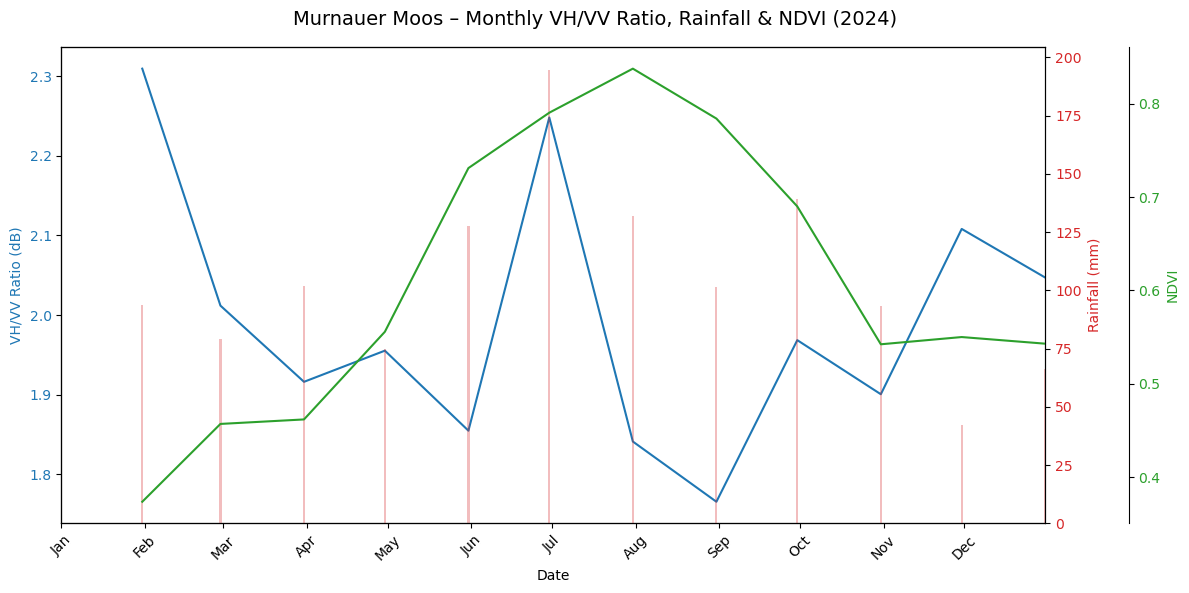
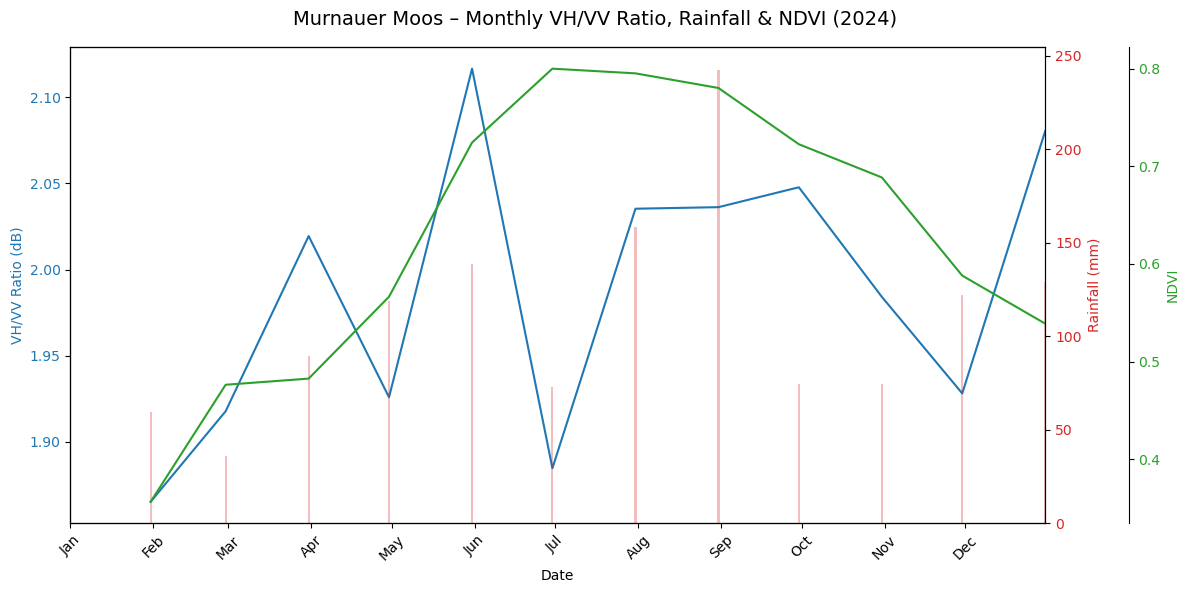
Update projects

diff --git a/docs/projects/Geospatial/Peatland-breathing.html b/docs/projects/Geospatial/Peatland-breathing.html
@@ -6,7 +6,7 @@
 
 <meta name="viewport" content="width=device-width, initial-scale=1.0, user-scalable=yes">
 
-<meta name="description" content="Multi-source remote sensing and rainfall data for monthly peatland ecosystem monitoring in 2024.">
+<meta name="description" content="Multi-sensor monitoring of peatland surface displacement and ecosystem dynamics using InSAR, NDVI, and rainfall data using GEE">
 
 <title>Peatland Breathing: Murnauer Moos – Fyeqa Akram</title>
 <style>
@@ -116,13 +116,14 @@ ul.task-list li input[type="checkbox"] {
   <div class="quarto-categories">
     <div class="quarto-category">Geospatial</div>
     <div class="quarto-category">Remote Sensing</div>
+    <div class="quarto-category">InSAR</div>
     <div class="quarto-category">Environmental Monitoring</div>
   </div>
   </div>
 
 <div>
   <div class="description">
-    Multi-source remote sensing and rainfall data for monthly peatland ecosystem monitoring in 2024.
+    Multi-sensor monitoring of peatland surface displacement and ecosystem dynamics using InSAR, NDVI, and rainfall data using GEE
   </div>
 </div>
 
@@ -139,44 +140,80 @@ ul.task-list li input[type="checkbox"] {
 </header>
 
 
-<p><a href="https://github.com/fyeqaa/Peatland-breathing.git" target="_blank"> <button style="background-color:#24292e; color:white; padding:8px 16px; border:none; border-radius:5px; cursor:pointer;"> View on GitHub </button> </a></p>
-<section id="project-overview" class="level3">
-<h3 class="anchored" data-anchor-id="project-overview">Project Overview</h3>
-<p>Peatlands are vital carbon sinks, storing more carbon than all the world’s forests combined—but their stability is sensitive to water level changes. The surface “breathing” of peatlands, observed through remote sensing, is a strong proxy for ecosystem health and CO₂ release, making large-scale monitoring essential for climate action.</p>
-<p>In this project, I developed a monthly monitoring framework for the temperate peatland ecosystem of Murnauer Moos in 2024. By integrating multi-source remote sensing datasets and climate variables—including Sentinel-1 SAR radar, Sentinel-2 NDVI, and rainfall data,I tracked vegetation and moisture dynamics to assess peatland ecosystem health and environmental responses.</p>
+<p><a href="https://github.com/fyeqaa/Peatland-breathing" target="_blank"> <button style="background-color:#24292e; color:white; padding:8px 16px; border:none; border-radius:5px; cursor:pointer;"> View on GitHub </button> </a></p>
+<section id="project-overview" class="level4">
+<h4 class="anchored" data-anchor-id="project-overview">Project Overview</h4>
+<p>Peatlands are among the most effective carbon sinks, storing more carbon than all global forests combined. Their surface motion, also called <strong>peatland breathing</strong>, is a proxy for water level fluctuations and carbon release potential.</p>
+<p>In this project, I monitored the <strong>Murnauer Moos</strong> peatland ecosystem in Germany throughout <strong>2023</strong>, leveraging <strong>InSAR displacement</strong>, <strong>NDVI</strong>, <strong>radar backscatter</strong>, and <strong>rainfall data</strong> to understand its dynamic behavior.</p>
+</section>
 <section id="data-sources" class="level4">
 <h4 class="anchored" data-anchor-id="data-sources">Data Sources</h4>
 <ul>
-<li>Sentinel-1 SAR (COPERNICUS/S1_GRD)</li>
-<li>Sentinel-2 (COPERNICUS/S2_SR_HARMONIZED)</li>
-<li>Rainfall (UCSB-CHG/CHIRPS/DAILY)</li>
+<li><strong>Sentinel-1 InSAR Displacement</strong> (<code>.geo.unw.tif</code>)</li>
+<li><strong>Sentinel-1 VH/VV SAR Backscatter</strong> (COPERNICUS/S1_GRD)</li>
+<li><strong>Sentinel-2 NDVI</strong> (COPERNICUS/S2_SR_HARMONIZED)</li>
+<li><strong>Rainfall</strong> (UCSB CHIRPS Daily Precipitation)</li>
 </ul>
 </section>
 <section id="methodology" class="level4">
 <h4 class="anchored" data-anchor-id="methodology">Methodology</h4>
+<section id="insar-displacement" class="level5">
+<h5 class="anchored" data-anchor-id="insar-displacement">1. <strong>InSAR Displacement</strong></h5>
 <ul>
-<li><strong>Study Area</strong>: The Murnauer Moos peatland, a key temperate wetland ecosystem.</li>
-<li><strong>Sentinel-1 Processing</strong>: Computation of VH/VV backscatter ratio to track surface water and vegetation moisture content.</li>
-<li><strong>Sentinel-2 Processing</strong>: NDVI calculation from harmonized surface reflectance to monitor vegetation health.</li>
-<li><strong>Rainfall Data</strong>: Aggregated from daily to monthly scale to capture precipitation patterns affecting the peatland.</li>
-<li><strong>Time Series Analysis</strong>: Monthly aggregation and alignment of all variables to facilitate integrated temporal analysis.</li>
+<li>Processed <strong>unwrapped phase</strong> files to derive <strong>monthly surface displacement</strong> in meters.</li>
+<li>Filtered low-coherence areas and calculated <strong>mean displacement</strong> for each time window.</li>
+<li>Visualized both time series and <strong>animated maps</strong> showing spatial displacement changes.</li>
 </ul>
 </section>
-<section id="results" class="level4">
-<h4 class="anchored" data-anchor-id="results">Results</h4>
-<p>The VH/VV ratio increases with higher rainfall, indicating enhanced peat surface wetness. Conversely, as vegetation greenness (NDVI) rises during summer, the ratio declines, suggesting canopy growth dampens the radar signal. This highlights the coupled influence of rainfall and vegetation on peatland “breathing” dynamics in Murnauer Moos</p>
-<div class="quarto-figure quarto-figure-center">
-<figure class="figure">
-<p><img src="../../images//Monthly_plot.png" class="img-fluid figure-img"></p>
-<figcaption>Monthly Plot</figcaption>
-</figure>
-</div>
 </section>
-<section id="future-work" class="level4">
-<h4 class="anchored" data-anchor-id="future-work">Future Work</h4>
+<section id="radar-backscatter" class="level4">
+<h4 class="anchored" data-anchor-id="radar-backscatter">2. <strong>Radar Backscatter</strong></h4>
 <ul>
-<li><strong>InSAR Displacement Monitoring</strong>: Incorporate Interferometric Synthetic Aperture Radar (InSAR) to measure peatland surface displacement and subsidence, enhancing understanding of ground stability and deformation processes.</li>
-<li><strong>Water Table Integration</strong>: Combine water table level measurements or groundwater models to better link hydrological conditions with vegetation and surface dynamics.</li>
+<li>Calculated <strong>VH/VV ratio</strong> to assess surface wetness and vegetation water content.</li>
+<li>Aggregated to monthly averages for temporal comparison.</li>
+</ul>
+</section>
+<section id="vegetation-monitoring-ndvi" class="level4">
+<h4 class="anchored" data-anchor-id="vegetation-monitoring-ndvi">3. <strong>Vegetation Monitoring (NDVI)</strong></h4>
+<ul>
+<li>Computed NDVI from Sentinel-2 surface reflectance.</li>
+<li>Used monthly means to track seasonal vegetation growth.</li>
+</ul>
+</section>
+<section id="rainfall-analysis" class="level4">
+<h4 class="anchored" data-anchor-id="rainfall-analysis">4. <strong>Rainfall Analysis</strong></h4>
+<ul>
+<li>Monthly total rainfall derived from CHIRPS daily data.</li>
+<li>Compared precipitation with InSAR and vegetation response.</li>
+</ul>
+</section>
+<section id="results-visualization" class="level3">
+<h3 class="anchored" data-anchor-id="results-visualization">Results &amp; Visualization</h3>
+<section id="multi-sensor-time-series-plot" class="level4">
+<h4 class="anchored" data-anchor-id="multi-sensor-time-series-plot">Multi-Sensor Time Series Plot</h4>
+<p>A combined plot visualizing:</p>
+<ul>
+<li><strong>Blue</strong>: VH/VV radar ratio (moisture)</li>
+<li><strong>Green</strong>: NDVI (vegetation health)</li>
+<li><strong>Red bars</strong>: Rainfall</li>
+<li><strong>Purple (below)</strong>: Mean displacement from InSAR</li>
+</ul>
+<p><img src="../../images/surface_disp.png" class="img-fluid" alt="Surface Displacemnt"> <img src="../../images/Monthly_plot.png" class="img-fluid" alt="Monthly Plot"></p>
+</section>
+<section id="interpretation" class="level4">
+<h4 class="anchored" data-anchor-id="interpretation">Interpretation</h4>
+<ul>
+<li><strong>Surface Uplift</strong> in July summer correlates with rainfall lagging</li>
+<li><strong>Subsidence</strong> in late summer/fall may indicate drying or reduced water table despite rainfall.</li>
+<li>InSAR reveals <strong>invisible ground motion</strong> that complements vegetation and climate data.</li>
+</ul>
+</section>
+<section id="future-directions" class="level4">
+<h4 class="anchored" data-anchor-id="future-directions">Future Directions</h4>
+<ul>
+<li><strong>Machine Learning Integration</strong>: Model peatland condition and CO₂ release using satellite + in-situ data.</li>
+<li><strong>Validation</strong>: Compare with water table records or Eddy Covariance data.</li>
+<li><strong>Generalization</strong>: Expand framework to other peatlands globally.</li>
 </ul>
 
 

diff --git a/docs/projects.html b/docs/projects.html
@@ -325,7 +325,7 @@ Park Accessibility in Berlin
 </div>
 </div></a>
 </div>
[2 lines of base64/hex data omitted]
 <a href="./projects/Geospatial/Peatland-breathing.html" class="quarto-grid-link">
 <div class="quarto-grid-item card h-100 card-left">
 <p class="card-img-top">
@@ -336,7 +336,7 @@ Park Accessibility in Berlin
 Peatland Breathing: Murnauer Moos
 </h5>
 <div class="card-text listing-description delink">
-<p>Multi-source remote sensing and rainfall data for monthly peatland ecosystem monitoring in 2024.</p>
+<p>Multi-sensor monitoring of peatland surface displacement and ecosystem dynamics using InSAR, NDVI, and rainfall data using GEE</p>
 </div>
 <div class="card-attribution card-text-small start">
 <div class="listing-author">

diff --git a/projects/Geospatial/Peatland-breathing.md b/projects/Geospatial/Peatland-breathing.md
@@ -1,50 +1,77 @@
 ---
 title: "Peatland Breathing: Murnauer Moos"
-categories: ["Geospatial", "Remote Sensing", "Environmental Monitoring"]
+categories: ["Geospatial", "Remote Sensing", "InSAR", "Environmental Monitoring"]
 image: ../../images/peatlands.png
-description: Multi-source remote sensing and rainfall data for monthly peatland ecosystem monitoring in 2024.
+description: Multi-sensor monitoring of peatland surface displacement and ecosystem dynamics using InSAR, NDVI, and rainfall data using GEE
 ---
 
-<a href="https://github.com/fyeqaa/Peatland-breathing.git" target="_blank">
+<a href="https://github.com/fyeqaa/Peatland-breathing" target="_blank">
   <button style="background-color:#24292e; color:white; padding:8px 16px; border:none; border-radius:5px; cursor:pointer;">
     View on GitHub
   </button>
 </a>
 
-### Project Overview
 
-Peatlands are vital carbon sinks, storing more carbon than all the world’s forests combined—but their stability is sensitive to water level changes.
-The surface “breathing” of peatlands, observed through remote sensing, is a strong proxy for ecosystem health and CO₂ release, making large-scale monitoring essential for climate action.
 
-In this project, I developed a monthly monitoring framework for the temperate peatland ecosystem of Murnauer Moos in 2024. By integrating multi-source remote sensing datasets and climate variables—including Sentinel-1 SAR radar, Sentinel-2 NDVI, and rainfall data,I tracked vegetation and moisture dynamics to assess peatland ecosystem health and environmental responses.
+#### Project Overview
+
+Peatlands are among the most effective carbon sinks, storing more carbon than all global forests combined. Their surface motion, also called **peatland breathing**, is a proxy for water level fluctuations and carbon release potential.
+
+In this project, I monitored the **Murnauer Moos** peatland ecosystem in Germany throughout **2023**, leveraging **InSAR displacement**, **NDVI**, **radar backscatter**, and **rainfall data** to understand its dynamic behavior.
+
 
 
 #### Data Sources
 
-- Sentinel-1 SAR (COPERNICUS/S1_GRD) 
-- Sentinel-2 (COPERNICUS/S2_SR_HARMONIZED)
-- Rainfall (UCSB-CHG/CHIRPS/DAILY)  
+- **Sentinel-1 InSAR Displacement** (`.geo.unw.tif`)
+- **Sentinel-1 VH/VV SAR Backscatter** (COPERNICUS/S1_GRD)
+- **Sentinel-2 NDVI** (COPERNICUS/S2_SR_HARMONIZED)
+- **Rainfall** (UCSB CHIRPS Daily Precipitation)
 
 #### Methodology
 
-- **Study Area**: The Murnauer Moos peatland, a key temperate wetland ecosystem.
-- **Sentinel-1 Processing**: Computation of VH/VV backscatter ratio to track surface water and vegetation moisture content.
-- **Sentinel-2 Processing**: NDVI calculation from harmonized surface reflectance to monitor vegetation health.
-- **Rainfall Data**: Aggregated from daily to monthly scale to capture precipitation patterns affecting the peatland.
-- **Time Series Analysis**: Monthly aggregation and alignment of all variables to facilitate integrated temporal analysis.
+##### 1. **InSAR Displacement**
+- Processed **unwrapped phase** files to derive **monthly surface displacement** in meters.
+- Filtered low-coherence areas and calculated **mean displacement** for each time window.
+- Visualized both time series and **animated maps** showing spatial displacement changes.
 
-#### Results
+#### 2. **Radar Backscatter**
+- Calculated **VH/VV ratio** to assess surface wetness and vegetation water content.
+- Aggregated to monthly averages for temporal comparison.
 
-The VH/VV ratio increases with higher rainfall, indicating enhanced peat surface wetness. Conversely, as vegetation greenness (NDVI) rises during summer, the ratio declines, suggesting canopy growth dampens the radar signal. This highlights the coupled influence of rainfall and vegetation on peatland “breathing” dynamics in Murnauer Moos
+#### 3. **Vegetation Monitoring (NDVI)**
+- Computed NDVI from Sentinel-2 surface reflectance.
+- Used monthly means to track seasonal vegetation growth.
 
-
-![Monthly Plot](../../images//Monthly_plot.png) 
-
-
-#### Future Work
-
-- **InSAR Displacement Monitoring**: Incorporate Interferometric Synthetic Aperture Radar (InSAR) to measure peatland surface displacement and subsidence, enhancing understanding of ground stability and deformation processes.
-- **Water Table Integration**: Combine water table level measurements or groundwater models to better link hydrological conditions with vegetation and surface dynamics.
+#### 4. **Rainfall Analysis**
+- Monthly total rainfall derived from CHIRPS daily data.
+- Compared precipitation with InSAR and vegetation response.
 
 
 
+###  Results & Visualization
+
+####  Multi-Sensor Time Series Plot
+A combined plot visualizing:
+
+- **Blue**: VH/VV radar ratio (moisture)
+- **Green**: NDVI (vegetation health)
+- **Red bars**: Rainfall
+- **Purple (below)**: Mean displacement from InSAR
+
+![Surface Displacemnt](../../images/surface_disp.png)
+![Monthly Plot](../../images/Monthly_plot.png)
+
+
+#### Interpretation
+
+- **Surface Uplift** in July summer correlates with rainfall lagging
+- **Subsidence** in late summer/fall may indicate drying or reduced water table despite rainfall.
+- InSAR reveals **invisible ground motion** that complements vegetation and climate data.
+
+
+#### Future Directions
+
+- **Machine Learning Integration**: Model peatland condition and CO₂ release using satellite + in-situ data.
+- **Validation**: Compare with water table records or Eddy Covariance data.
+- **Generalization**: Expand framework to other peatlands globally.
